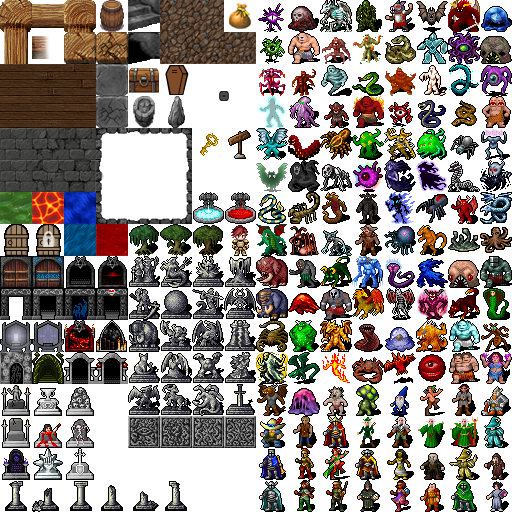
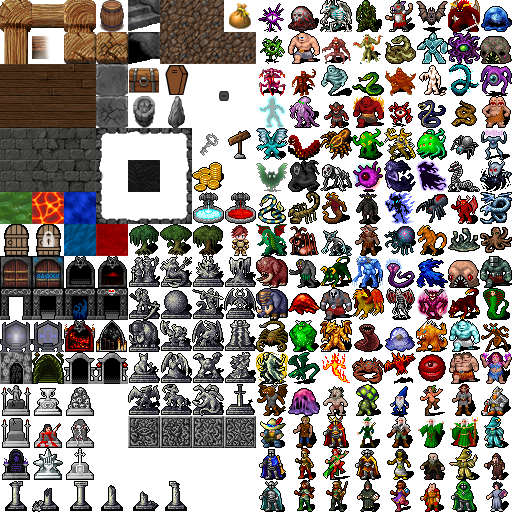
added new tile images

Changed region(s): [[0.375, 0.2812, 0.4375, 0.375], [0.25, 0.3125, 0.3125, 0.375], [0.4062, 0.25, 0.4375, 0.2812]]

diff --git a/src/tile-image-enum.hpp b/src/tile-image-enum.hpp
@@ -42,6 +42,8 @@ namespace castlecrawl
         Tree1,
         Tree2,
         Tree3,
+        Coins,
+        DarkBackground,
 
         Wall_TopLeft,
         Wall_Horiz,
@@ -292,9 +294,18 @@ namespace castlecrawl
 
     inline constexpr bool isDrawnByMapDisplay(const char ch) noexcept
     {
-        return ((ch != 'a') && (ch != 'A') && (ch != ' '));
+        return ((ch != 'a') && (ch != 'A') && (ch != ' ') && (ch != '.'));
     }
 
+    /*
+            //case '\\':
+            //case '`':
+            //case '{':
+            //case '\'':
+            //case '}';
+            //
+            //case '\x7F':
+    */
     inline constexpr TileImage charToTileImage(const char ch) noexcept
     {
         // clang-format off
@@ -326,6 +337,7 @@ namespace castlecrawl
             case 'L':    { return TileImage::Tree1;                 }
             case 'm':    { return TileImage::Tree2;                 }
             case 'M':    { return TileImage::Tree3;                 }
+            case '~':    { return TileImage::Coins;                 }
 
             case 'n':    { return TileImage::Statue_Twins;          }
             case 'N':    { return TileImage::Statue_Mermaid;        }
@@ -394,16 +406,7 @@ namespace castlecrawl
             case '_':    { return TileImage::Block_Emboss3;         }
             case ']':    { return TileImage::Block_Emboss4;         }
 
-            //case '\\':
-            //case '`':
-            //case '{':
-            //case '\'':
-            //case '}';
-            //case '~':
-            //
-            //case '\x1F':
-            //case '\x7F':
-                    
+            case '\x1F': { return TileImage::DarkBackground;        }
             case '\x1D': { return TileImage::Wall_Shadow;           }
             case '\x1E': { return TileImage::Avatar;                }
 
@@ -622,7 +625,8 @@ namespace castlecrawl
             case TileImage::Tree1:               { return 'L'; }
             case TileImage::Tree2:               { return 'm'; }
             case TileImage::Tree3:               { return 'M'; }
-
+            case TileImage::Coins:               { return '~'; }
+            
             case TileImage::Statue_Twins:        { return 'n'; }
             case TileImage::Statue_Mermaid:      { return 'N'; }
             case TileImage::Statue_Demonic:      { return 'o'; }
@@ -690,6 +694,7 @@ namespace castlecrawl
             case TileImage::Block_Emboss3:       { return '_'; }
             case TileImage::Block_Emboss4:       { return ']'; }
 
+            case TileImage::DarkBackground:      { return '\x1F'; }
             case TileImage::Wall_Shadow:         { return '\x1D'; }
             case TileImage::Avatar:              { return '\x1E'; }
 
@@ -1054,7 +1059,8 @@ namespace castlecrawl
             case TileImage::Lava:                
             case TileImage::Tree1:               
             case TileImage::Tree2:               
-            case TileImage::Tree3:               
+            case TileImage::Tree3:     
+            case TileImage::Coins:
 
             case TileImage::Statue_Twins:        
             case TileImage::Statue_Mermaid:      
@@ -1123,6 +1129,7 @@ namespace castlecrawl
             case TileImage::Block_Emboss3:       
             case TileImage::Block_Emboss4:       
 
+            case TileImage::DarkBackground:
             case TileImage::Wall_Shadow:         
             case TileImage::Avatar:              
 
@@ -1340,7 +1347,8 @@ namespace castlecrawl
             case TileImage::Lava:                
             case TileImage::Tree1:               
             case TileImage::Tree2:               
-            case TileImage::Tree3:               
+            case TileImage::Tree3:   
+            case TileImage::Coins:
 
             case TileImage::Statue_Twins:        
             case TileImage::Statue_Mermaid:      
@@ -1409,6 +1417,7 @@ namespace castlecrawl
             case TileImage::Block_Emboss3:       
             case TileImage::Block_Emboss4:       
 
+            case TileImage::DarkBackground:
             case TileImage::Wall_Shadow:         
             case TileImage::Avatar:              
 
@@ -1478,6 +1487,9 @@ namespace castlecrawl
             case TileImage::Tree1:              { return sf::IntRect( {128,224},{32,32}); }
             case TileImage::Tree2:              { return sf::IntRect( {160,224},{32,32}); }
             case TileImage::Tree3:              { return sf::IntRect( {192,224},{32,32}); }
+            case TileImage::Coins:              { return sf::IntRect( {192,160},{32,32}); }
+            
+            case TileImage::DarkBackground:     { return sf::IntRect( {128,160},{32,32}); }
             case TileImage::Wall_Shadow:        { return sf::IntRect( { 32, 32},{32,32}); }
             case TileImage::Avatar:             { return sf::IntRect( {224,224},{32,32}); }
             
@@ -1763,6 +1775,9 @@ namespace castlecrawl
             case TileImage::Tree1:              { return "Tree"; }
             case TileImage::Tree2:              { return "Tree"; }
             case TileImage::Tree3:              { return "Tree"; }
+            case TileImage::Coins:              { return "Coins"; }
+
+            case TileImage::DarkBackground:     { return "DarkBackground"; }
             case TileImage::Wall_Shadow:        { return "Wall_Shadow"; }
             case TileImage::Avatar:             { return "You"; }
             

diff --git a/src/maps.cpp b/src/maps.cpp
@@ -162,9 +162,9 @@ namespace castlecrawl
                 "... ........b    d  \x85  .     .....",
                 "... ........bb   .     .     .....",
                 "...    ...................d.......",
-                "...... .....3    .     .b    .....",
+                "...... .....     .     .b    .....",
                 "...... .....     D     d     .....",
-                "...... .....c    .     .     .....",
+                "...... .....~    .     .     .....",
                 "...... ...........................",
                 "......d..........................."
                 },

diff --git a/src/game-config.hpp b/src/game-config.hpp
@@ -16,7 +16,7 @@ namespace castlecrawl
     {
         std::filesystem::path media_path;
         sf::VideoMode video_mode;
-        sf::Color background_color   = sf::Color::Black; // sf::Color(16, 16, 16);
+        sf::Color background_color   = sf::Color::Black;
         float music_volume           = 40.0f;
         unsigned int framerate_limit = 0;
         float top_panel_height_ratio = 0.1f;

diff --git a/src/map-display.cpp b/src/map-display.cpp
@@ -98,7 +98,7 @@ namespace castlecrawl
                 }
 
                 // floor tiles
-                if (' ' != cell.floor_char)
+                if ((' ' != cell.floor_char) && ('.' != cell.floor_char))
                 {
                     appendTileVerts(
                         t_context, charToTileImage(cell.floor_char), screenPos, m_floorVerts);
